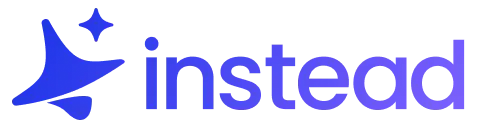
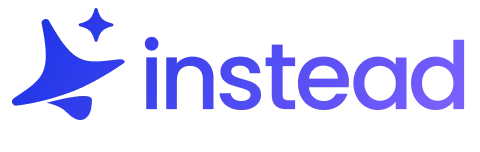
fix(apps/web): MainBreadcrumbItem 컴포넌트 수정

diff --git a/apps/web/src/components/common/MainBreadcrumbItem/MainBreadcrumbItem.tsx b/apps/web/src/components/common/MainBreadcrumbItem/MainBreadcrumbItem.tsx
@@ -3,6 +3,7 @@ import Link from 'next/link';
 import { MouseEvent } from 'react';
 import Image from 'next/image';
 import InsteadLogoImage from '@web/assets/images/instead.webp';
+import { Breadcrumb } from '@repo/ui';
 
 type MainBreadcrumbItemProps = {
   href?: string;
@@ -21,17 +22,19 @@ export function MainBreadcrumbItem({
   };
 
   return (
-    <Link
-      href={href}
-      className={styles.insteadTextWrapperStyle}
-      onClick={handleClick}
-    >
-      <Image
-        src={InsteadLogoImage}
-        alt="Instead 로고"
-        width={120}
-        height={32}
-      />
-    </Link>
+    <Breadcrumb.Item>
+      <Link
+        href={href}
+        className={styles.insteadTextWrapperStyle}
+        onClick={handleClick}
+      >
+        <Image
+          src={InsteadLogoImage}
+          alt="Instead 로고"
+          width={120}
+          height={38}
+        />
+      </Link>
+    </Breadcrumb.Item>
   );
 }
